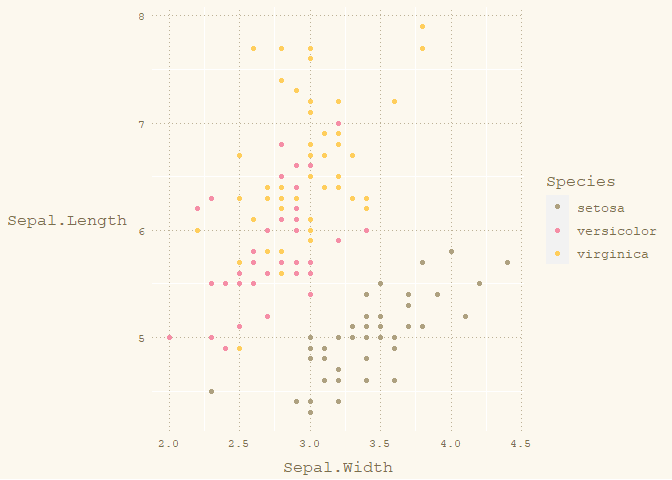
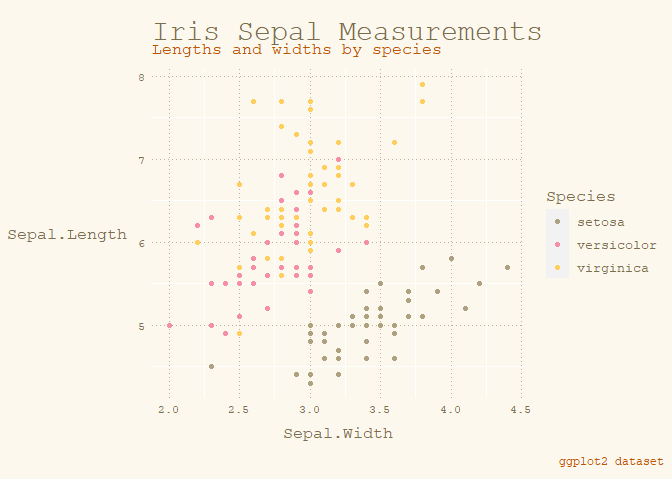
minor fixes

diff --git a/README.md b/README.md
@@ -34,19 +34,22 @@ There are three themes: matcha, apricot and butterfly.
   library(ggtea)
 
   ggplot(iris, aes(Sepal.Width, Sepal.Length)) + 
-  geom_point(aes(col = Species)) +
+  geom_point(aes(col = Species)) + 
+  labs(title = "Iris Sepal Measurements",
+       subtitle = "Lengths and widths by species",
+       caption = "ggplot2 dataset") +
   apricot_d()
 ```
 
 ![](README_files/figure-gfm/pressure-1.png)<!-- -->
 
 ``` r
-  ggplot(diamonds, aes(price, carat)) + 
-  geom_point(aes(col = price)) + 
+  ggplot(diamonds, aes(carat, price)) + 
+  geom_point(aes(col = price), alpha = 0.25) + 
+  labs(title = "Diamond Prices by Carat Size",
+       subtitle = "How much does the carat size influence the price of a diamond?",
+       caption = "Tinkerbell likes diamonds (I presume)") + 
   butterfly_c()
 ```
 
 ![](README_files/figure-gfm/pressure-2.png)<!-- -->
-
-Note that the `echo = FALSE` parameter was added to the code chunk to
-prevent printing of the R code that generated the plot.
